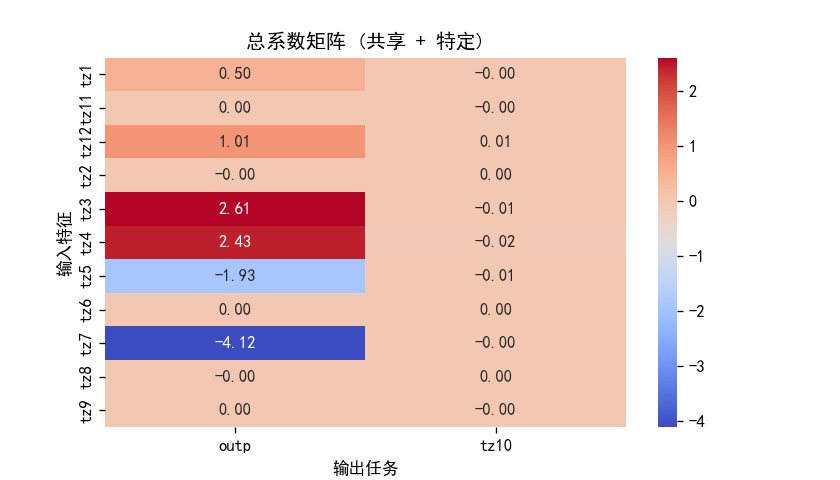
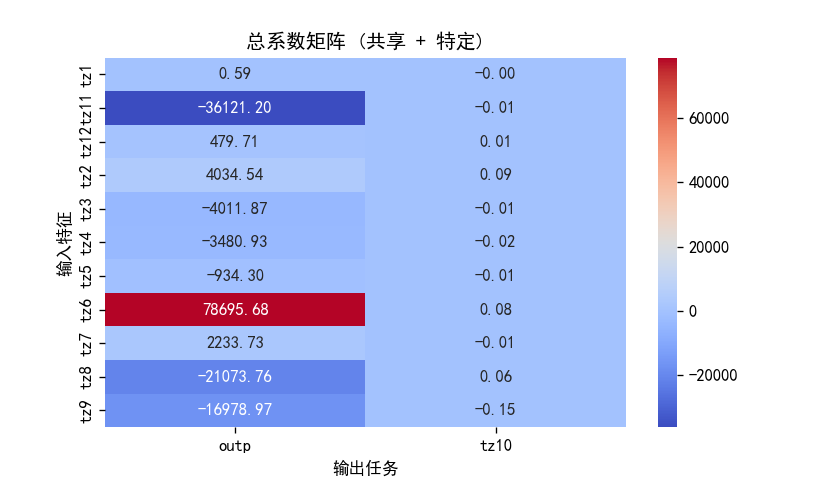
今天添加了GL算法的两个超参数，一个是max_iter，还有一个是tol容忍度，后面其实还有好多超参数可以更改，后面两个算法也可以再加很多超参数加进来

diff --git a/ALL_Algorithms/algorithms6_GL_para.py b/ALL_Algorithms/algorithms6_GL_para.py
@@ -63,15 +63,15 @@ class Ui_GL_para(object):
 "}")
         self.pushButton_2.setObjectName("pushButton_2")
         self.horizontalLayout.addWidget(self.pushButton_2)
-        self.widget = QtWidgets.QWidget(self.centralwidget)
-        self.widget.setGeometry(QtCore.QRect(160, 70, 281, 118))
-        self.widget.setObjectName("widget")
-        self.horizontalLayout_2 = QtWidgets.QHBoxLayout(self.widget)
+        self.layoutWidget1 = QtWidgets.QWidget(self.centralwidget)
+        self.layoutWidget1.setGeometry(QtCore.QRect(170, 40, 281, 158))
+        self.layoutWidget1.setObjectName("layoutWidget1")
+        self.horizontalLayout_2 = QtWidgets.QHBoxLayout(self.layoutWidget1)
         self.horizontalLayout_2.setContentsMargins(0, 0, 0, 0)
         self.horizontalLayout_2.setObjectName("horizontalLayout_2")
         self.verticalLayout = QtWidgets.QVBoxLayout()
         self.verticalLayout.setObjectName("verticalLayout")
-        self.label = QtWidgets.QLabel(self.widget)
+        self.label = QtWidgets.QLabel(self.layoutWidget1)
         self.label.setStyleSheet("QLabel {\n"
 "    border: 1px solid rgb(70, 130, 180);   /* 增强为科研蓝边框，参考Nature期刊图表色 */\n"
 "    border-radius: 8px;\n"
@@ -93,7 +93,7 @@ class Ui_GL_para(object):
 "}")
         self.label.setObjectName("label")
         self.verticalLayout.addWidget(self.label)
-        self.label_2 = QtWidgets.QLabel(self.widget)
+        self.label_2 = QtWidgets.QLabel(self.layoutWidget1)
         self.label_2.setStyleSheet("QLabel {\n"
 "    border: 1px solid rgb(70, 130, 180);   /* 增强为科研蓝边框，参考Nature期刊图表色 */\n"
 "    border-radius: 8px;\n"
@@ -115,7 +115,7 @@ class Ui_GL_para(object):
 "}")
         self.label_2.setObjectName("label_2")
         self.verticalLayout.addWidget(self.label_2)
-        self.label_3 = QtWidgets.QLabel(self.widget)
+        self.label_3 = QtWidgets.QLabel(self.layoutWidget1)
         self.label_3.setStyleSheet("QLabel {\n"
 "    border: 1px solid rgb(70, 130, 180);   /* 增强为科研蓝边框，参考Nature期刊图表色 */\n"
 "    border-radius: 8px;\n"
@@ -137,14 +137,38 @@ class Ui_GL_para(object):
 "}")
         self.label_3.setObjectName("label_3")
         self.verticalLayout.addWidget(self.label_3)
+        self.label_4 = QtWidgets.QLabel(self.layoutWidget1)
+        self.label_4.setStyleSheet("QLabel {\n"
+"    border: 1px solid rgb(70, 130, 180);   /* 增强为科研蓝边框，参考Nature期刊图表色 */\n"
+"    border-radius: 8px;\n"
+"    padding: 4px 8px;\n"
+"    background-color: rgb(255, 255, 255);  /* 纯白背景提升对比度 */\n"
+"    color: rgb(30, 80, 120);               /* 深海军蓝文字，对比度达8:1 */\n"
+"    font: bold 16pt \"Times New Roman\";     \n"
+"    qproperty-alignment: \'AlignCenter\';\n"
+"    /* 强化阴影效果 */\n"
+"}\n"
+"\n"
+"QLabel:hover {\n"
+"    border-color: rgb(0, 100, 180);        /* 悬停时使用更高饱和的科研蓝 */\n"
+"    background-color: rgb(240, 248, 255);  /* 极浅蓝悬停反馈 */\n"
+"}\n"
+"\n"
+"QLabel:pressed {\n"
+"    background-color: rgb(220, 240, 255);  /* 按压状态模拟墨水渗透效果 */\n"
+"}")
+        self.label_4.setObjectName("label_4")
+        self.verticalLayout.addWidget(self.label_4)
         self.horizontalLayout_2.addLayout(self.verticalLayout)
         self.verticalLayout_2 = QtWidgets.QVBoxLayout()
         self.verticalLayout_2.setObjectName("verticalLayout_2")
-        self.spinBox_random_state = QtWidgets.QSpinBox(self.widget)
+        self.spinBox_random_state = QtWidgets.QSpinBox(self.layoutWidget1)
         self.spinBox_random_state.setMinimumSize(QtCore.QSize(80, 30))
         font = QtGui.QFont()
         font.setFamily("Times New Roman")
         font.setPointSize(12)
+        font.setBold(True)
+        font.setWeight(75)
         self.spinBox_random_state.setFont(font)
         self.spinBox_random_state.setStyleSheet("QSpinBox::up-button:pressed {\n"
 "    margin-top: 4px;  /* 模拟按压下沉 */\n"
@@ -155,7 +179,7 @@ class Ui_GL_para(object):
         self.spinBox_random_state.setProperty("value", 42)
         self.spinBox_random_state.setObjectName("spinBox_random_state")
         self.verticalLayout_2.addWidget(self.spinBox_random_state)
-        self.doubleSpinBox_alpha = QtWidgets.QDoubleSpinBox(self.widget)
+        self.doubleSpinBox_alpha = QtWidgets.QDoubleSpinBox(self.layoutWidget1)
         self.doubleSpinBox_alpha.setMinimumSize(QtCore.QSize(80, 30))
         font = QtGui.QFont()
         font.setFamily("Times New Roman")
@@ -173,20 +197,43 @@ class Ui_GL_para(object):
         self.doubleSpinBox_alpha.setProperty("value", 0.1)
         self.doubleSpinBox_alpha.setObjectName("doubleSpinBox_alpha")
         self.verticalLayout_2.addWidget(self.doubleSpinBox_alpha)
-        self.spinBox_3 = QtWidgets.QSpinBox(self.widget)
-        self.spinBox_3.setMinimumSize(QtCore.QSize(80, 30))
+        self.spinBox_max_iter = QtWidgets.QSpinBox(self.layoutWidget1)
+        self.spinBox_max_iter.setMinimumSize(QtCore.QSize(80, 30))
         font = QtGui.QFont()
         font.setFamily("Times New Roman")
         font.setPointSize(12)
-        self.spinBox_3.setFont(font)
-        self.spinBox_3.setStyleSheet("QSpinBox::up-button:pressed {\n"
+        font.setBold(True)
+        font.setWeight(75)
+        self.spinBox_max_iter.setFont(font)
+        self.spinBox_max_iter.setStyleSheet("QSpinBox::up-button:pressed {\n"
 "    margin-top: 4px;  /* 模拟按压下沉 */\n"
 "}\n"
 "QSpinBox::down-button:pressed {\n"
 "    margin-top: 4px;\n"
 "}")
-        self.spinBox_3.setObjectName("spinBox_3")
-        self.verticalLayout_2.addWidget(self.spinBox_3)
+        self.spinBox_max_iter.setMaximum(99999)
+        self.spinBox_max_iter.setProperty("value", 2000)
+        self.spinBox_max_iter.setObjectName("spinBox_max_iter")
+        self.verticalLayout_2.addWidget(self.spinBox_max_iter)
+        self.doubleSpinBox_tol = QtWidgets.QDoubleSpinBox(self.layoutWidget1)
+        self.doubleSpinBox_tol.setMinimumSize(QtCore.QSize(0, 30))
+        font = QtGui.QFont()
+        font.setFamily("Times New Roman")
+        font.setPointSize(12)
+        font.setBold(True)
+        font.setWeight(75)
+        self.doubleSpinBox_tol.setFont(font)
+        self.doubleSpinBox_tol.setStyleSheet("QDoubleSpinBox::up-button:pressed {\n"
+"    margin-top: 4px;  /* 模拟按压下沉 */\n"
+"}\n"
+"QDoubleSpinBox::down-button:pressed {\n"
+"    margin-top: 4px;\n"
+"}")
+        self.doubleSpinBox_tol.setDecimals(5)
+        self.doubleSpinBox_tol.setSingleStep(1e-05)
+        self.doubleSpinBox_tol.setProperty("value", 0.0001)
+        self.doubleSpinBox_tol.setObjectName("doubleSpinBox_tol")
+        self.verticalLayout_2.addWidget(self.doubleSpinBox_tol)
         self.horizontalLayout_2.addLayout(self.verticalLayout_2)
         GL_para.setCentralWidget(self.centralwidget)
         self.menubar = QtWidgets.QMenuBar(GL_para)
@@ -210,4 +257,5 @@ class Ui_GL_para(object):
         self.pushButton_2.setText(_translate("GL_para", "取消"))
         self.label.setText(_translate("GL_para", "random_state"))
         self.label_2.setText(_translate("GL_para", "alpha"))
-        self.label_3.setText(_translate("GL_para", "TextLabel"))
+        self.label_3.setText(_translate("GL_para", "max_iter"))
+        self.label_4.setText(_translate("GL_para", "tol"))

diff --git a/predict.py b/predict.py
@@ -41,7 +41,7 @@ from ALL_Algorithms.ReMTW import remtw_plot_and_evaluate
 import warnings
 warnings.filterwarnings("ignore", category=DeprecationWarning)
 global max_depth, random_state,n_estimators,kernel, C, epsilon,scale_features
-global hidden_layer_sizes, max_iter,method,n_jobs,alpha,beta
+global hidden_layer_sizes, max_iter,method,n_jobs,alpha,beta,tol
 method = 'NONE'  # 初始化方法为NONE
 # 读取输入参数
 VA_data_path = ""  # 设置一个默认值
@@ -247,8 +247,10 @@ class POP_GL_para(QMainWindow, Ui_GL_para, Ui_MainWindow):
     
     def Confirm(self):
          # 读取输入参数
-        global  random_state,alpha,method
+        global  random_state,alpha,method,max_iter,tol
         alpha = self.doubleSpinBox_alpha.text()
+        max_iter = self.spinBox_max_iter.text()
+        tol = self.doubleSpinBox_tol.text()
         random_state = self.spinBox_random_state.text()
         method = 'GL'
         if self.parent_window:
@@ -256,6 +258,8 @@ class POP_GL_para(QMainWindow, Ui_GL_para, Ui_MainWindow):
 
         print("alpha:", alpha) 
         print("random_state:", random_state)
+        print("max_iter:", max_iter)
+        print("tol:", tol)
 
 class POP_MTW_para(QMainWindow, Ui_MTW_para, Ui_MainWindow):#mtw算法改
     def __init__(self,parent=None):
@@ -817,6 +821,8 @@ class MyMainWindow(QMainWindow, Ui_MainWindow):  # 继承 QMainWindow类和 Ui_M
                 output_columns=output_columns,
                 alpha=float(alpha),
                 random_state=int(random_state),
+                max_iter=int(max_iter),
+                tol=float(tol),
                 show_plots=False,
                 show_prints=True
             )

diff --git a/ALL_Algorithms/Group_Lasso.py b/ALL_Algorithms/Group_Lasso.py
@@ -8,7 +8,7 @@ from matplotlib import rcParams
 import matplotlib.pyplot as plt
 import seaborn as sns
 
-# 设置中文显示
+# 设置中文显示 matplotlib
 rcParams['font.sans-serif'] = ['SimHei']
 rcParams['axes.unicode_minus'] = False
 
@@ -18,6 +18,8 @@ def group_lasso_predictor(
     input_columns,
     output_columns,
     alpha=0.1,
+    max_iter=2000,
+    tol=1e-4,
     random_state=42,
     show_plots=False,
     show_prints=False
@@ -80,8 +82,8 @@ def group_lasso_predictor(
         alpha=alpha,
         fit_intercept=True,
         normalize=False,
-        max_iter=2000,
-        tol=1e-4
+        max_iter=max_iter,
+        tol=tol
     )
 
     if show_prints:
